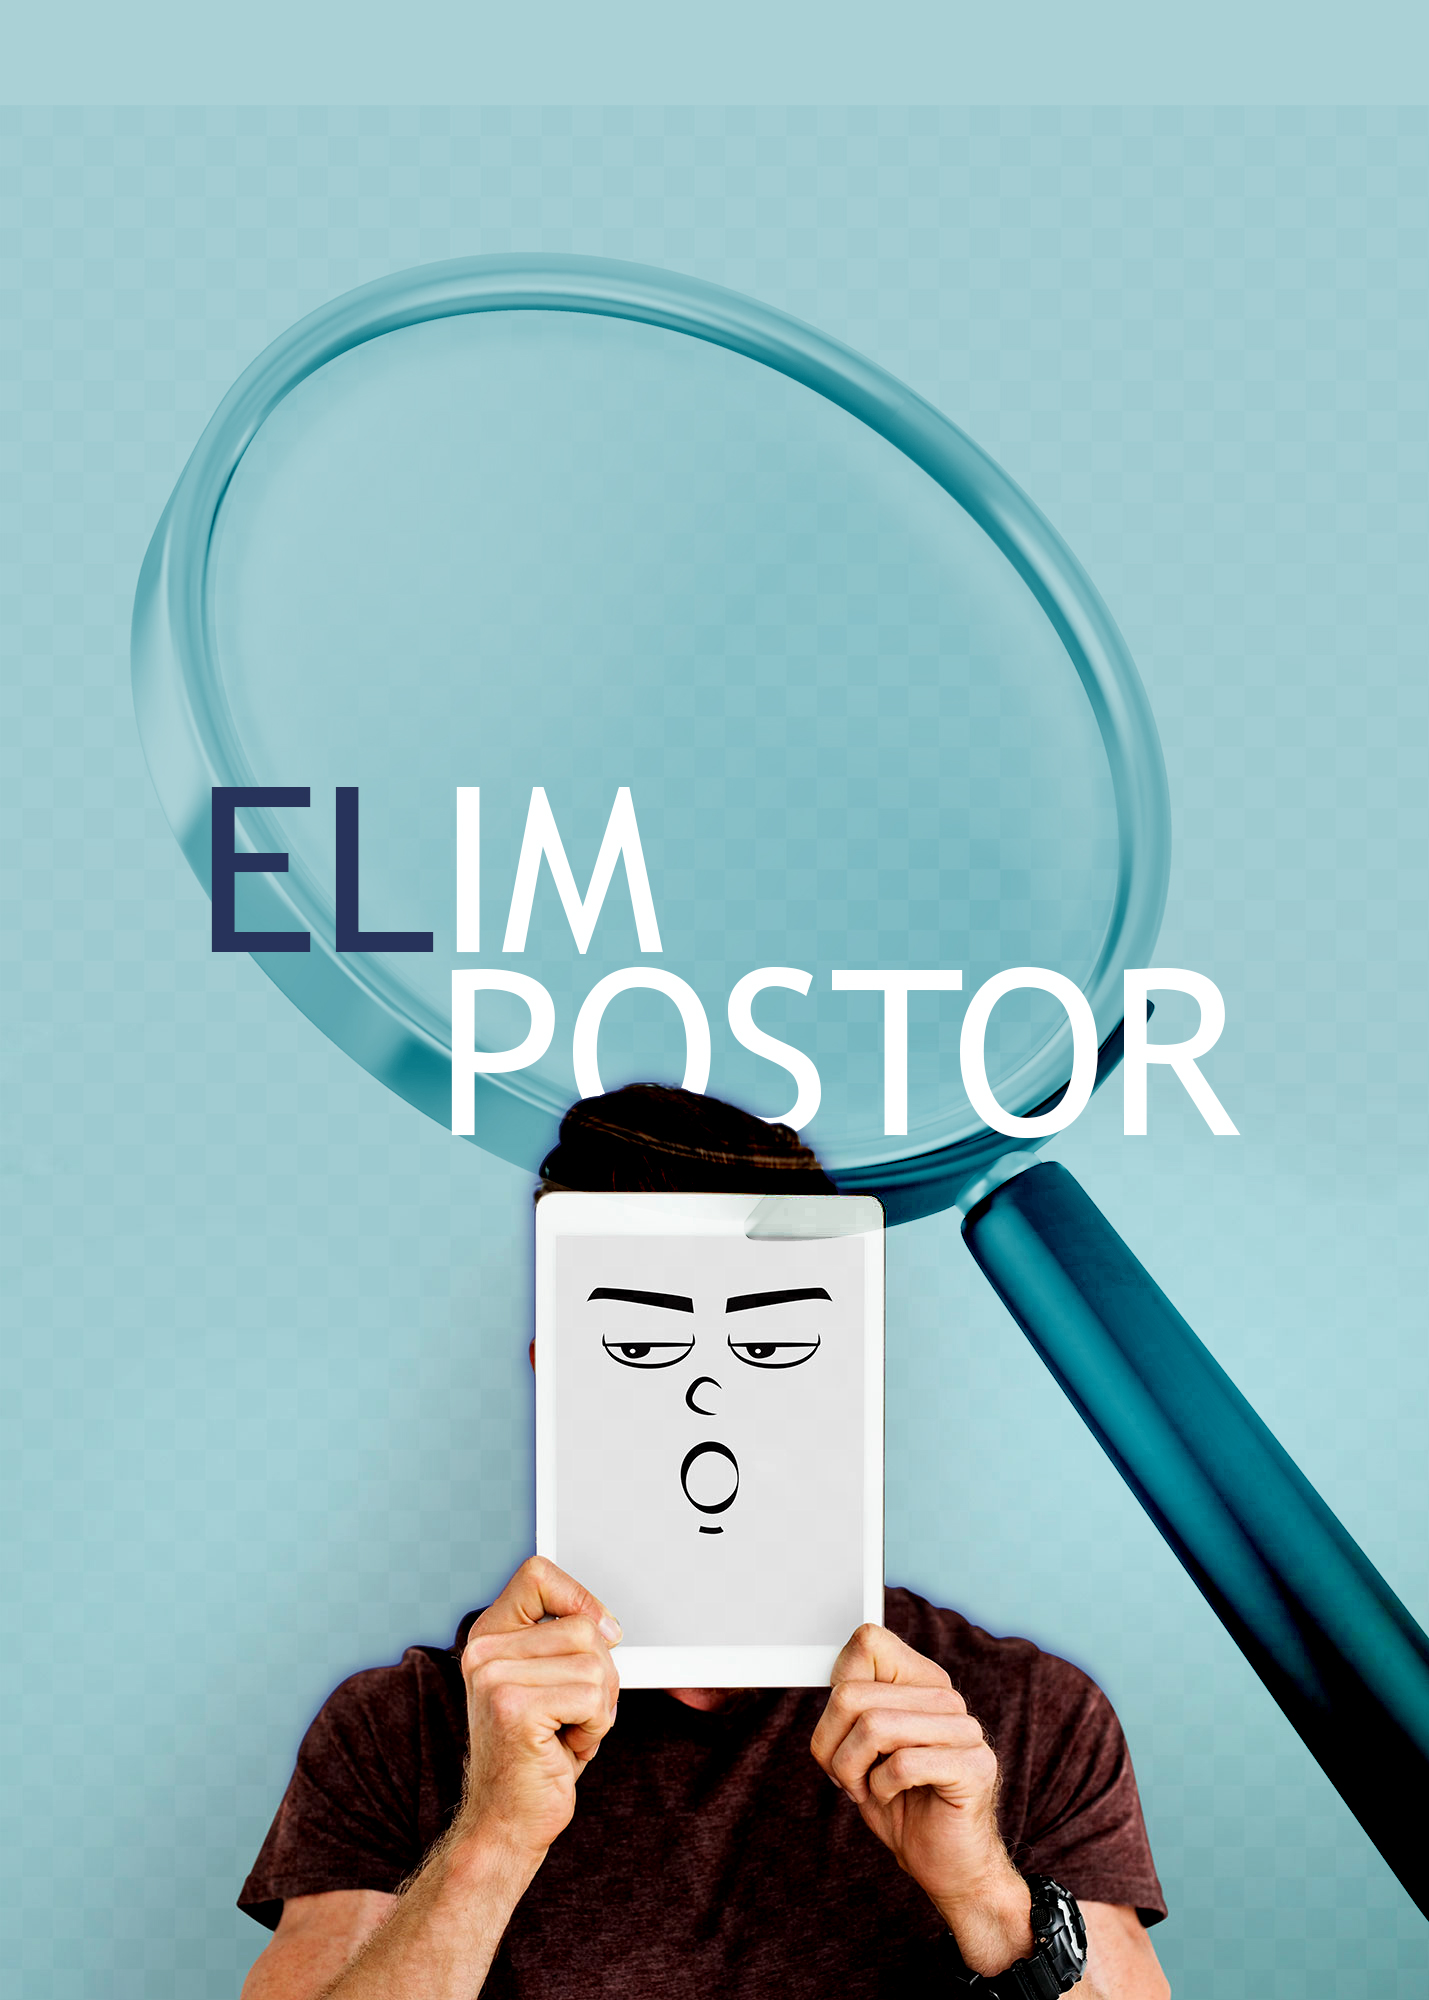
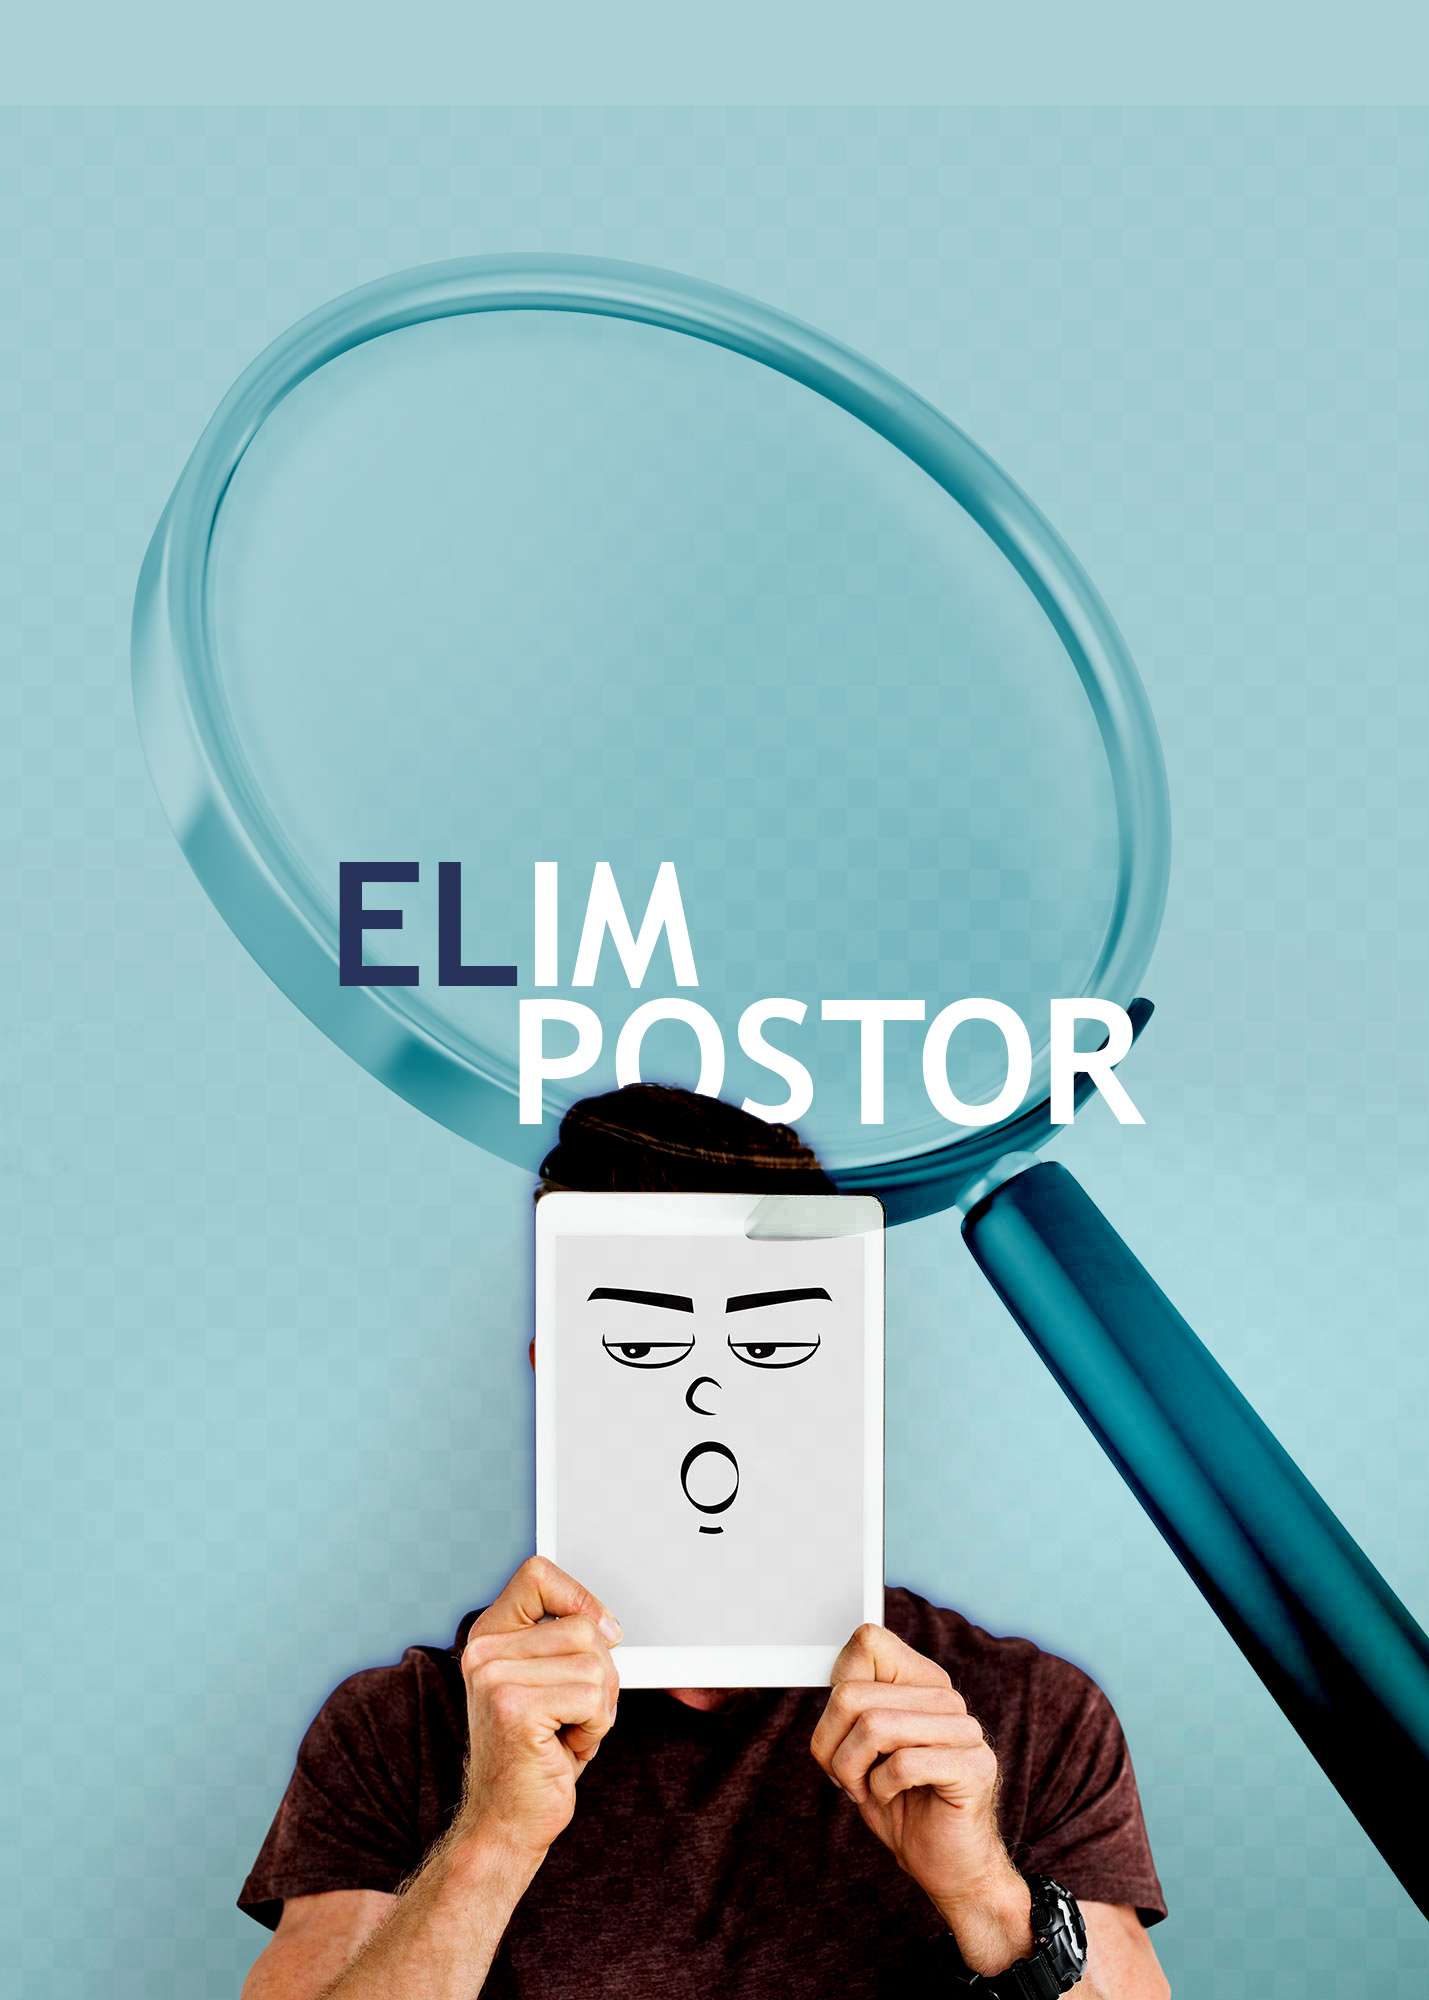
Style: Remove text overlay from splash screen

Changed region(s): [[0.1232, 0.372, 0.8621, 0.589]]

diff --git a/src/components/SplashScreen.jsx b/src/components/SplashScreen.jsx
@@ -26,17 +26,7 @@ const SplashScreen = ({ onComplete }) => {
             />
             <div className="absolute inset-0 bg-gradient-to-b from-transparent to-black/80 z-0" />
 
-            <motion.div
-                initial={{ opacity: 0, scale: 0.8 }}
-                animate={{ opacity: 1, scale: 1 }}
-                exit={{ opacity: 0 }}
-                transition={{ duration: 0.5 }}
-                className="relative z-10 p-4"
-            >
-                <h1 className="text-5xl md:text-7xl font-black text-white drop-shadow-2xl tracking-tighter text-center uppercase">
-                    EL IMPOSTOR
-                </h1>
-            </motion.div>
+
         </div>
     );
 };
